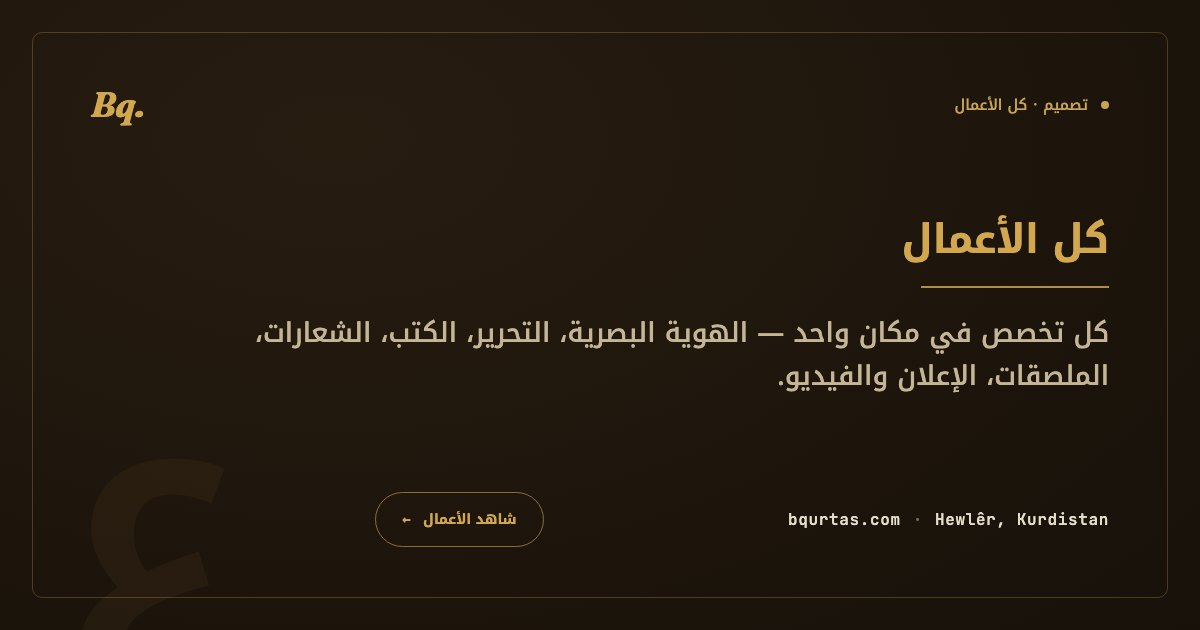
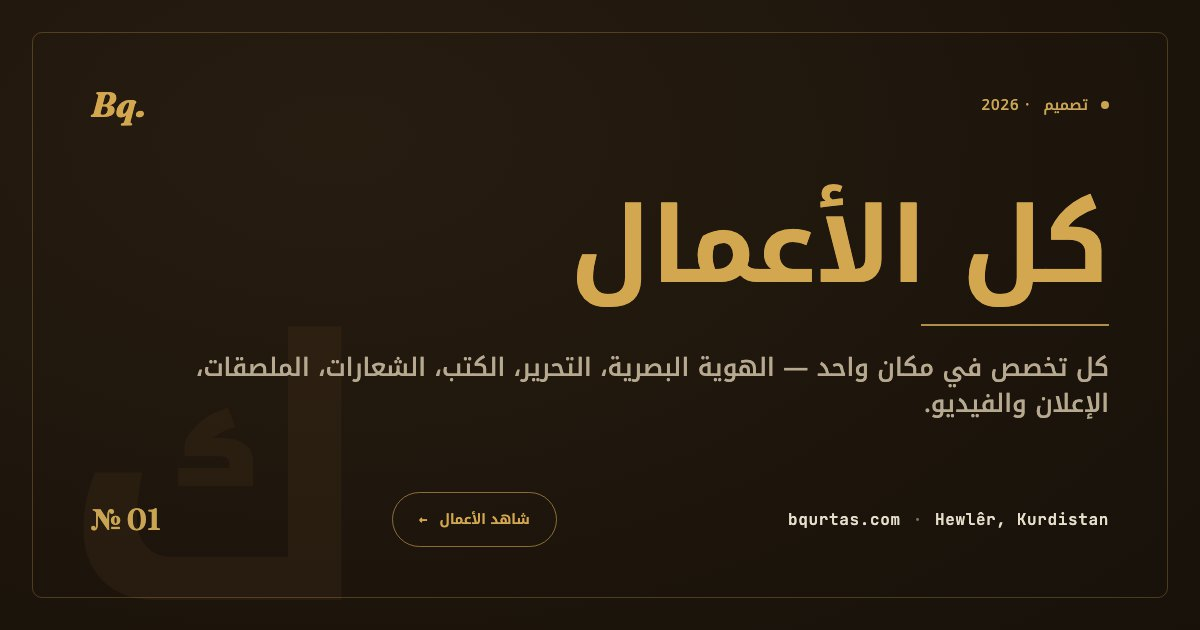
Panjamor-style Design cover, shuffled works, slightly larger tabs
- The /design (All Work) cover is rebuilt in the exact Panjamor cover style —
  104px italic wordmark, "DESIGN · 2026" eyebrow, "№ 01", matching frame &
  watermark — in all 7 languages, RTL-mirrored for ku/ar. Bumped the cover
  cache key to v3 so shares pick up the new image.
- Gallery now reshuffles the full deck on every load and every tab switch, so
  the first ~35 works are a fresh, different set each visit (order stays stable
  through Load-more). ~700 works behind the All Work room.
- Tab buttons: icon stacked above the label and centred so icons line up
  column-for-column across both rows, and nudged a little larger.

Bump cache-bust to v123

diff --git a/preview_site/index.html b/preview_site/index.html
@@ -133,7 +133,7 @@
   <link rel="stylesheet" href="https://cdn.jsdelivr.net/npm/@fortawesome/fontawesome-free@6.5.1/css/all.min.css" media="print" onload="this.media='all'">
   <noscript><link rel="stylesheet" href="https://cdn.jsdelivr.net/npm/@fortawesome/fontawesome-free@6.5.1/css/all.min.css"></noscript>
 
-  <link rel="stylesheet" href="css/style.css?v=121" />
+  <link rel="stylesheet" href="css/style.css?v=123" />
 </head>
 <body>
 
@@ -1458,10 +1458,10 @@
   <!-- Blog content backend (Supabase). The key is a PUBLIC publishable key —
        safe in the client; row-level security lets visitors only read posts. -->
   <script>window.BQ_SUPA = { url: 'https://dcnkhzrishphpismmxuu.supabase.co', key: 'sb_publishable_FrR6Ur2yy-rOCgKk5D326w_j5rfBgV3' };</script>
-  <script src="js/i18n.js?v=121"></script>
-  <script src="js/chat-kb.js?v=121"></script>
-  <script src="js/main.js?v=121"></script>
-  <script src="js/gallery.js?v=121"></script>
-  <script src="js/enhance.js?v=121"></script>
+  <script src="js/i18n.js?v=123"></script>
+  <script src="js/chat-kb.js?v=123"></script>
+  <script src="js/main.js?v=123"></script>
+  <script src="js/gallery.js?v=123"></script>
+  <script src="js/enhance.js?v=123"></script>
 </body>
 </html>

diff --git a/functions/[[route]].js b/functions/[[route]].js
@@ -69,15 +69,15 @@ export async function onRequest(context) {
       const blogD = (OG[r.lang] && OG[r.lang].blog && OG[r.lang].blog.d) || OG.en.blog.d;
       meta = { t: String(tr.title || post.title || 'Journal').trim() + ' — Barakat Qurtas',
                d: String(tr.subtitle || post.subtitle || blogD).trim() };
-      img  = (post.cover && /^https?:\/\//.test(post.cover)) ? post.cover : (SITE + '/assets/covers/' + r.lang + '-blog.jpg?v=2');
+      img  = (post.cover && /^https?:\/\//.test(post.cover)) ? post.cover : (SITE + '/assets/covers/' + r.lang + '-blog.jpg?v=3');
       imgType = /\.png(\?|$)/i.test(img) ? 'image/png' : /\.webp(\?|$)/i.test(img) ? 'image/webp' : 'image/jpeg';
     } else {
       meta = (OG[r.lang] && OG[r.lang].blog) || OG.en.blog;
-      img  = SITE + '/assets/covers/' + r.lang + '-blog.jpg?v=2';
+      img  = SITE + '/assets/covers/' + r.lang + '-blog.jpg?v=3';
     }
   } else {
     meta = (OG[r.lang] && OG[r.lang][r.key]) || OG.en[r.key] || OG.en.home;
-    img  = SITE + '/assets/covers/' + r.lang + '-' + r.key + '.jpg?v=2';
+    img  = SITE + '/assets/covers/' + r.lang + '-' + r.key + '.jpg?v=3';
   }
 
   try {

diff --git a/preview_site/js/main.js b/preview_site/js/main.js
@@ -434,10 +434,17 @@ document.addEventListener('DOMContentLoaded', () => {
     tr:  { t: 'Yakında', s: 'AI destekli afişler ve video — çok yakında burada.' },
     sv:  { t: 'Kommer snart', s: 'AI-stödda affischer och video — landar här snart.' },
   };
+  /* shuffle the master deck so every visit / tab-switch surfaces a fresh set of
+     works at the top; the order then stays stable all the way through Load-more. */
+  const shuffleAllCards = () => {
+    const a = window.BQ_ALL_CARDS;
+    if (!Array.isArray(a)) return;
+    for (let i = a.length - 1; i > 0; i--) { const j = (Math.random() * (i + 1)) | 0; const t = a[i]; a[i] = a[j]; a[j] = t; }
+  };
   /* render the gallery. reset=true rebuilds columns (tab switch / resize). */
   window.__bqRenderGallery = (reset) => {
     if (!gridEl) return;
-    if (reset) { buildColumns(colCountForWidth()); currentShown = 0; }
+    if (reset) { shuffleAllCards(); buildColumns(colCountForWidth()); currentShown = 0; }
     const matching = matchingCards();
     if (currentFilter === 'ai' && matching.length === 0) {   // AI tab, no works yet → coming soon
       gridEl.innerHTML = '';

diff --git a/preview_site/css/style.css b/preview_site/css/style.css
@@ -1069,18 +1069,20 @@ body.menu-open .to-top { opacity: 0 !important; pointer-events: none; transform:
 }
 .tab {
   position: relative;
-  padding: 19px 10px 22px;
+  padding: 15px 8px 17px;
   font-family: 'Manrope', sans-serif;
-  font-size: 15px; font-weight: 600;
+  font-size: 14.5px; font-weight: 600;
   color: var(--ink-muted);
   background: transparent;
-  display: inline-flex; align-items: center; justify-content: center; gap: 9px;
+  /* icon stacked above the label, centred in its grid cell — so icons line up
+     column-for-column across both rows instead of drifting with the label width */
+  display: flex; flex-direction: column; align-items: center; justify-content: center; gap: 8px;
   text-align: center;
   border-radius: 0; border: none;
   transition: color 0.25s ease;
   overflow: hidden;
 }
-.tab i { color: var(--gold); font-size: 16px; flex-shrink: 0; transition: transform 0.3s var(--ease); }
+.tab i { color: var(--gold); font-size: 20px; flex-shrink: 0; transition: transform 0.3s var(--ease); }
 .tab-label { transition: opacity 0.25s ease; }
 
 /* underline indicator — expands from center */
